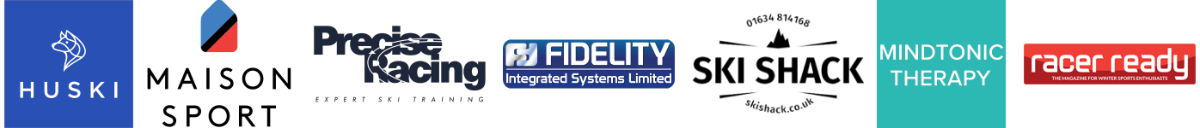
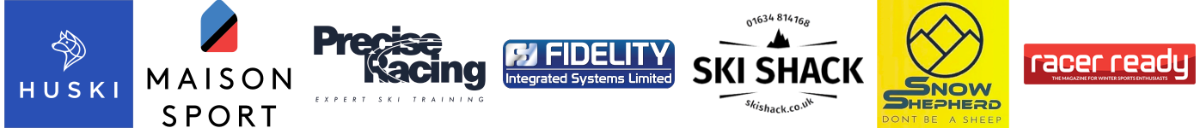
Add Snow Shepherd to sponsors

Changed region(s): [[0.7092, 0.0, 0.8633, 1.0]]

diff --git a/src/styles/_homepage.scss b/src/styles/_homepage.scss
@@ -4,10 +4,10 @@
 
 .sponsor-logo-grid {
     display: grid;
-    grid-template-columns: repeat(7, 1fr);
+    grid-template-columns: repeat(8, 1fr);
     column-gap: 2.0rem;
 
-    @media (max-width: 630px) {
+    @media (max-width: 900px) {
         grid-template-columns: repeat(4, 1fr);
     }
 }

diff --git a/README.md b/README.md
@@ -6,8 +6,6 @@
 [PlanetScale](https://planetscale.com/) and [Netlify](https://www.netlify.com/), with
 [Stripe](https://stripe.com/en-gb) integration for payments.
 
-![stack flow diagram](./static/stack-design.png)
-
 ## Index
 **[Rationale](#rationale)**
 
@@ -36,6 +34,8 @@ Netlify app 'behind the scenes'.
 
 *This is the approach taken for the Bowles website re-build from 2016, which worked well.*
 
+![stack flow diagram](./static/stack-design.png)
+
 [⥣ back to index](#index)
 
 ## Sponsors
@@ -63,15 +63,19 @@ The structure for each sponsor is:
 This data is used (a) to populate the `sponsors` page, (b) to populate the sponsors carousel that
 sits alongside "hero" images, and (c) to populate the sponsors images at the bottom of the homepage.
 
-For the 2023 season there are seven sponsors and having seven logos in one row (reducing to four
-logos per row on smaller devices) appears to work well; this is determined by the styling
-of the `.sponsor-logo-grid` element **in the `_homepage.scss` file** (change the
-`grid-template-columns: repeat(7, 1fr);` value).
+As the number of sponsors changes, the styling of the sponsor logos at the bottom of the homepage
+may need updating; at the time of writing it is set up for eight logos in one row (reducing to four
+logos per row on devices with screen width less than 900px). This is determined by the styling
+of the `.sponsor-logo-grid` element **in the `_homepage.scss` file** (change the 
+`grid-template-columns: repeat(8, 1fr);` value).
 
 As new sponsors are added (and old removed), the following changes are required:
 * change the content of the `sponsors.yaml` file (deleting and adding as appropriate)
-* for new sponsors, a logo is required - this should sit in the `src/images/sponsors` 
+* for new sponsors, a logo is required - this should be saved in the `src/images/sponsors` 
   folder; have a transparent background (`png` recommended); be in a 4:3 ratio, ideally 400x300
+* add the logo to the 'sponsor banners' in `static/images` (there are two, one post-fixed `_1200`
+  which should be 1200px wide, and the other without a post-fix which should be 800px wide; height
+  "doesn't matter")
 * if the number of sponsors changes, change the `grid-template-columns` value in
   `src/style/_homepage.scss` (for `.sponsor-grid-logo`)
   
